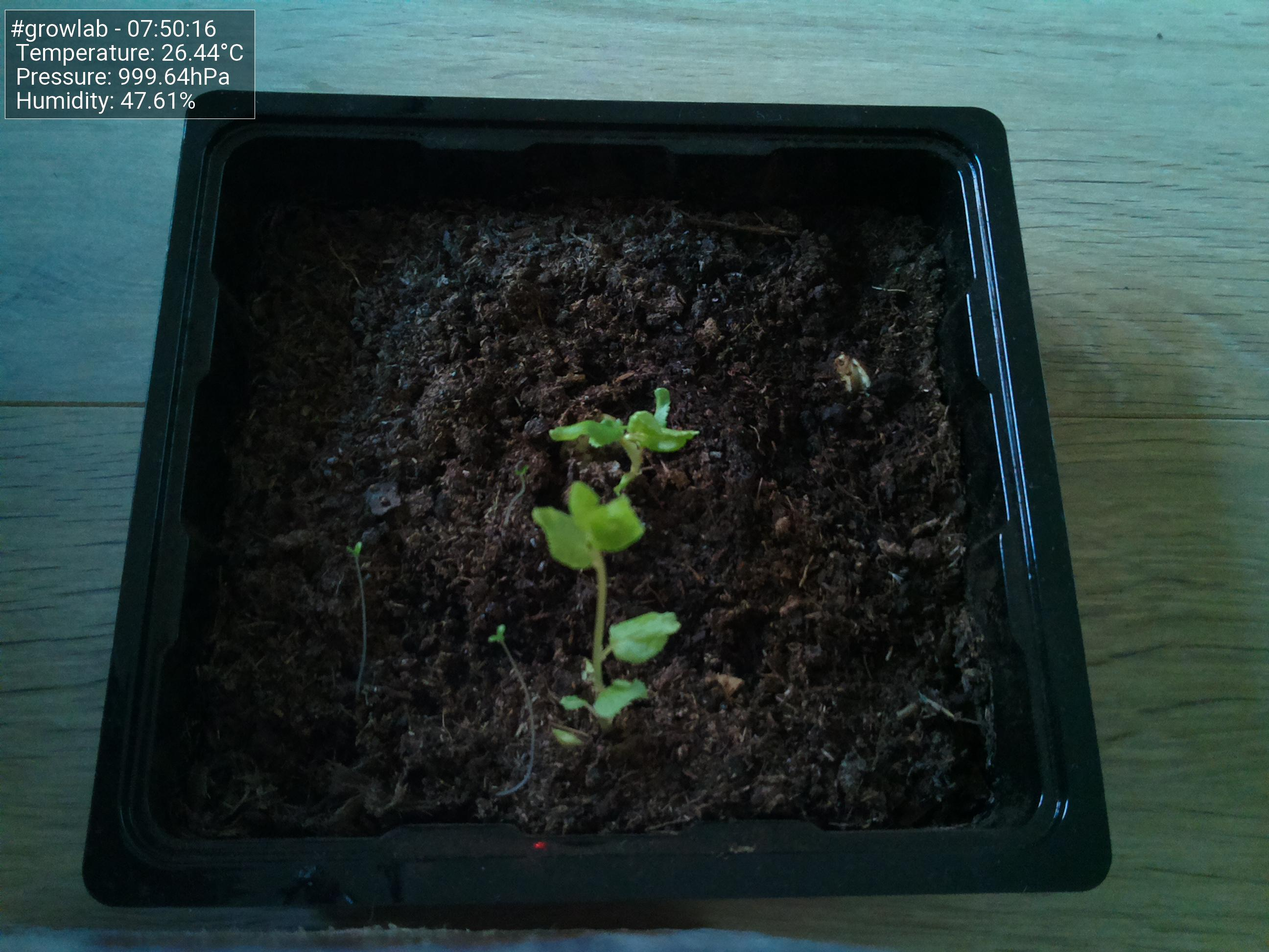
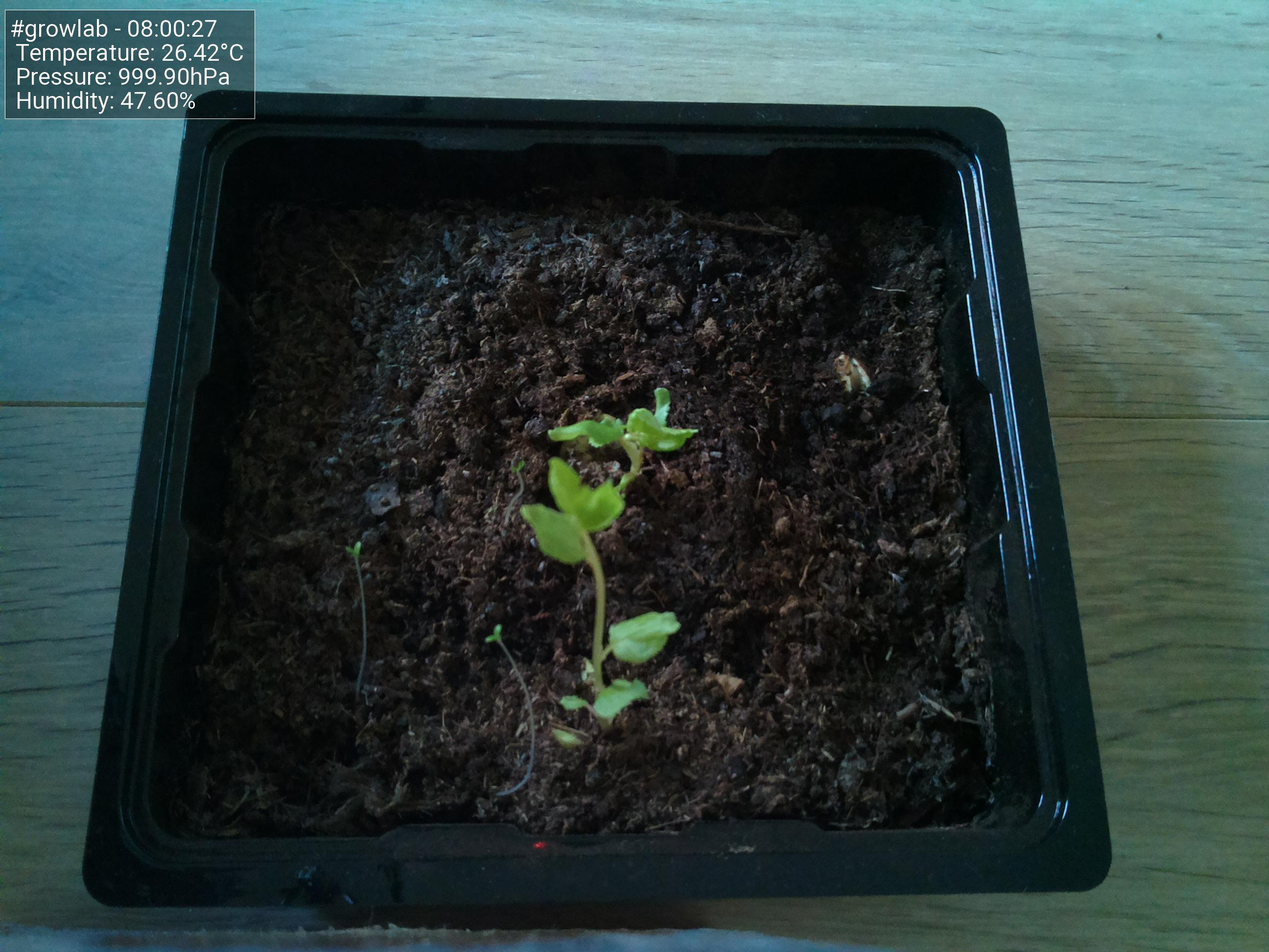
Update images at Thu 10 Jun 08:00:32 CEST 2021

diff --git a/docs/index.html b/docs/index.html
@@ -47,19 +47,19 @@
                         <tbody>
                             <tr>
                                 <td>Time</td>
-                                <td>07:50:16</td>
+                                <td>08:00:27</td>
                             </tr>
                             <tr>
                                 <td>Temperature</td>
-                                <td>26.44°C</td>
+                                <td>26.42°C</td>
                             </tr>
                             <tr>
                                 <td>Humidity</td>
-                                <td>47.61%</td>
+                                <td>47.60%</td>
                             </tr>
                             <tr>
                                 <td>Pressure</td>
-                                <td>999.64hPa</td>
+                                <td>999.90hPa</td>
                             </tr>
                         </tbody>
                     </table>
@@ -67,7 +67,7 @@
 
                 <h5>Latest image</h5>
                 <div style="width: 85%;">
-                            <img class="figure-img img-fluid rounded" src="./preview.jpg?uid=1623304220.3613584">
+                            <img class="figure-img img-fluid rounded" src="./preview.jpg?uid=1623304831.8944619">
                 </div>
             </div>
         </div>
